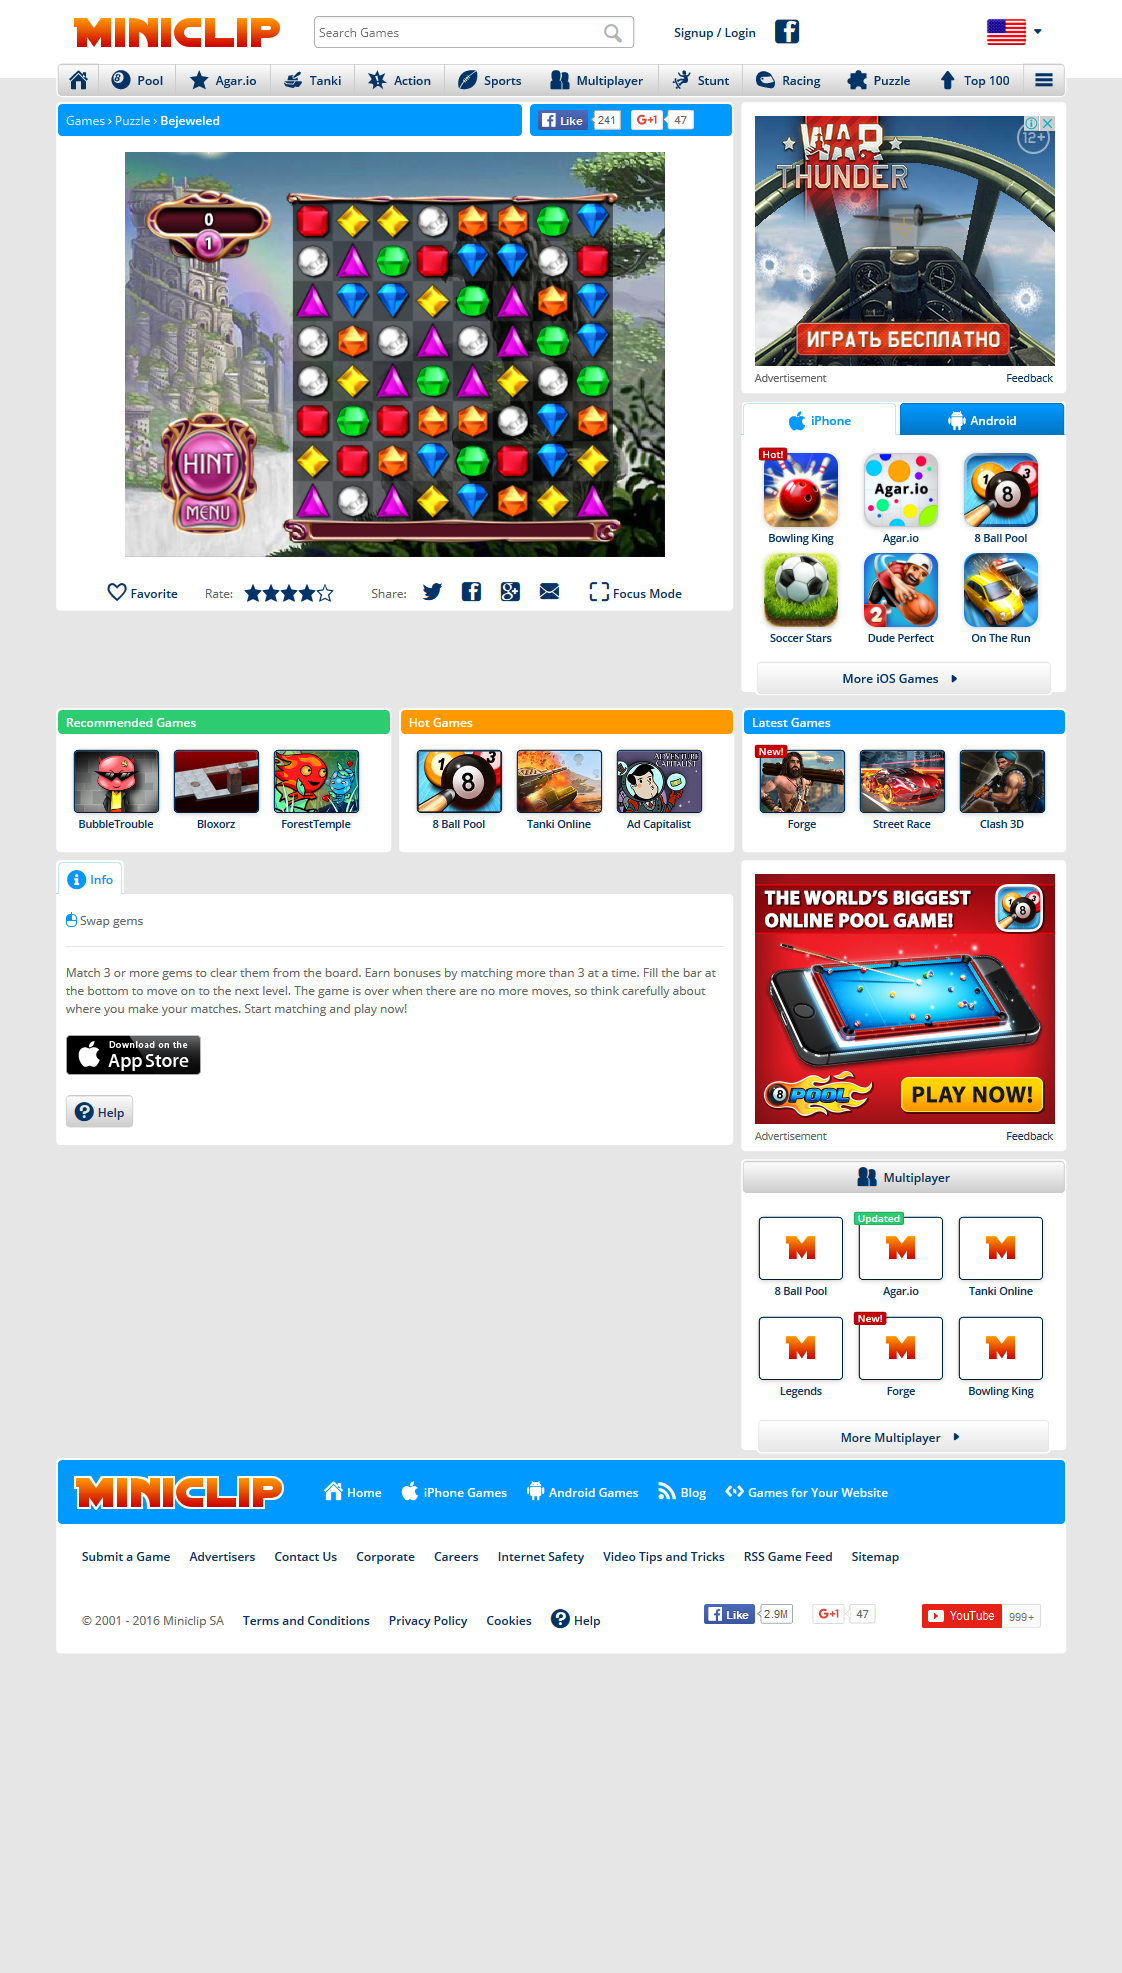
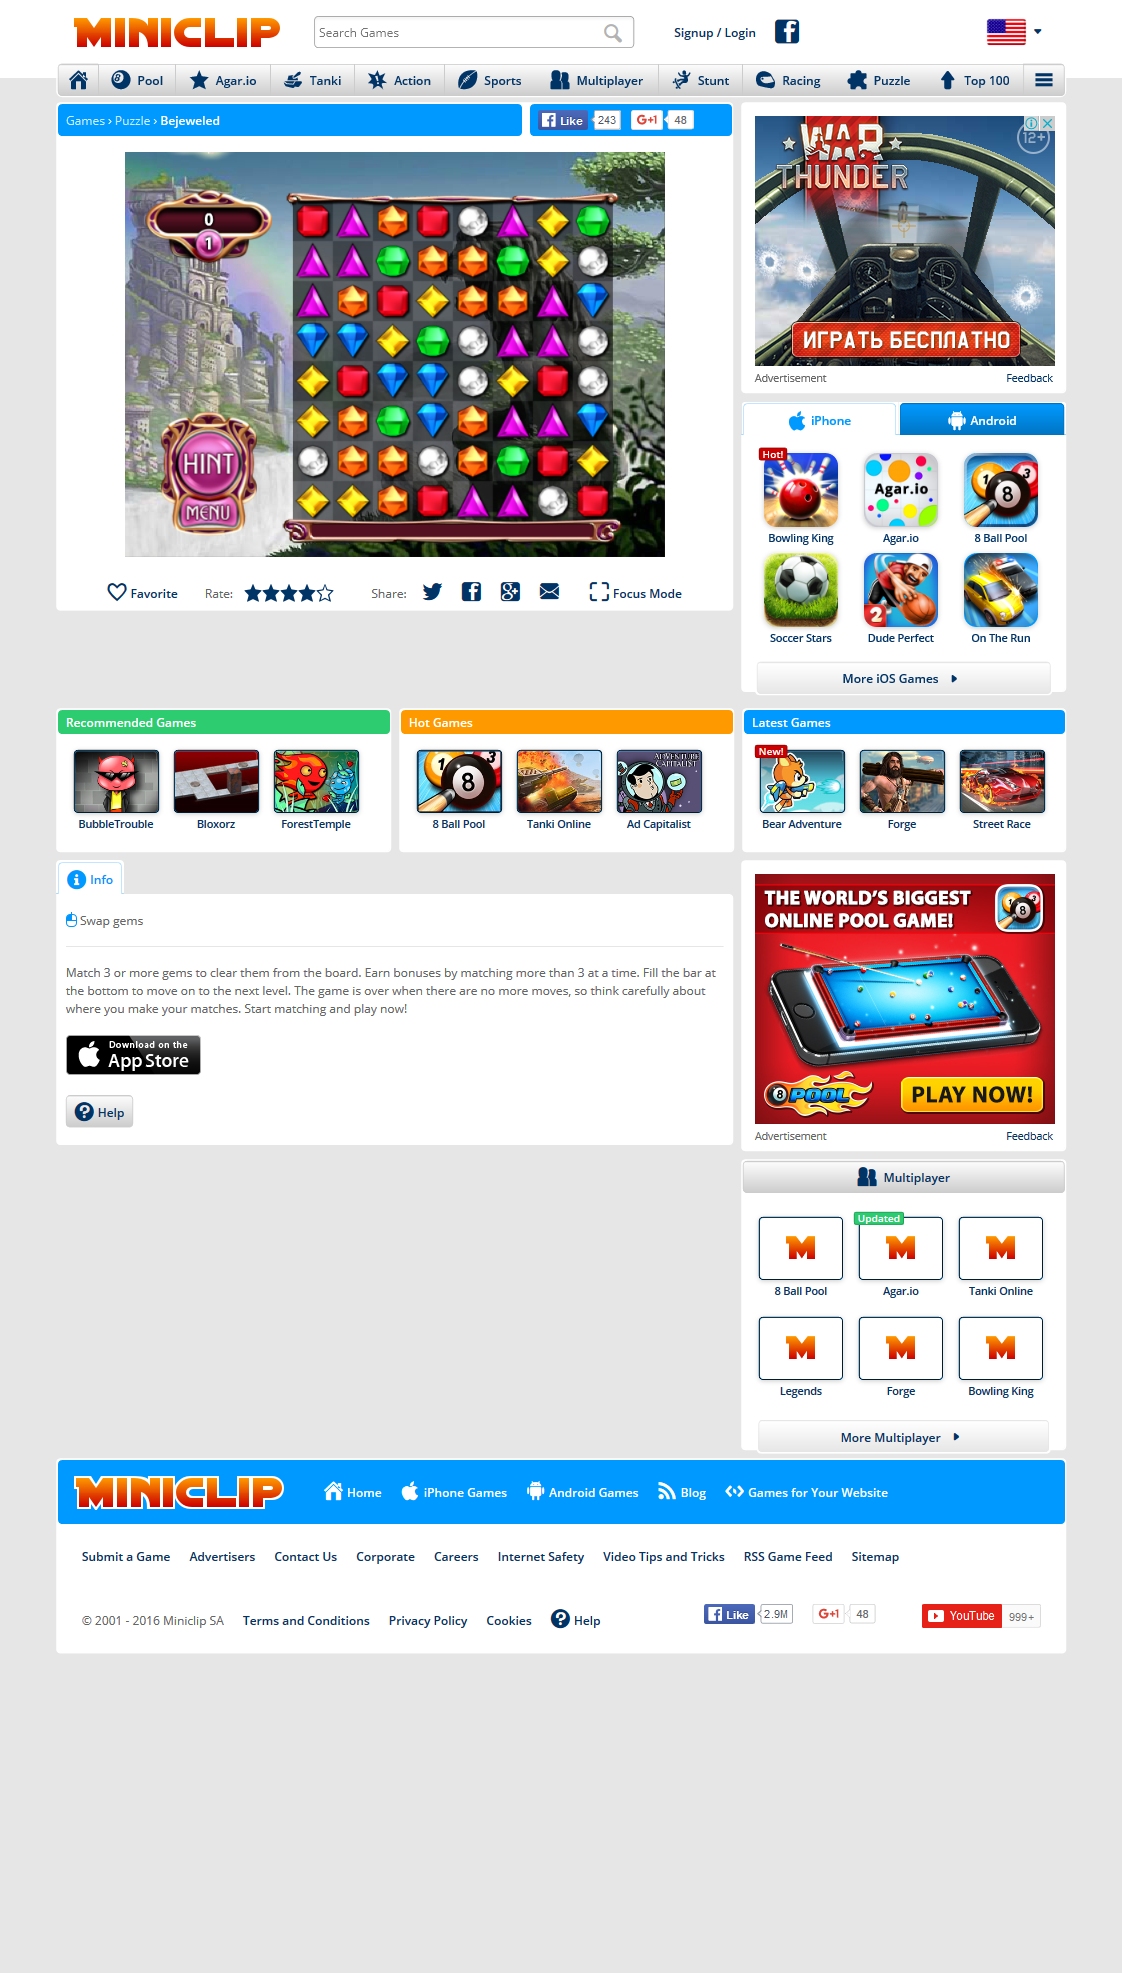
Added classes and in total 1 working module which swaps 2 gems

diff --git a/main/firstGrab_v2_1.py b/main/firstGrab_v2_1.py
@@ -1,0 +1,174 @@
+
+import numpy as np
+
+import copy
+from selenium import webdriver
+import time
+import cv2
+
+
+
+class GameBoard:
+  #  number_lst = [('number_1.jpg', '1', 0.88) ,('number_2.jpg', '2', 0.8), ('number_3.jpg', '3', 0.8) ,('number_4.jpg', '4', 0.8) , ('number_5.jpg', '5', 0.8), ('number_6.jpg', '6', 0.8), ('number_7.jpg', '7', 0.88), ('number_8.jpg', '8', 0.8), ('number_9.jpg', '9', 0.66),  ('number_0.jpg', '0', 0.8) ]
+  #  new_number_lst = []
+
+    gems = [('White_gem.jpg', 'white', 0.8), ('Blue_gem.jpg', 'blue', 0.8), ('Purple_gem.jpg', 'purple', 0.8), ('Yellow_gem.jpg', 'yellow', 0.8), ('Red_gem.jpg', 'red', 0.8), ('Orange_gem.jpg', 'orange', 0.83), ('Green_gem.jpg', 'green', 0.82), ('Green_flame.jpg', 'green_flame', 0.8), ('Blue_flame.jpg', 'blue_flame', 0.8), ('Yellow_flame.jpg', 'yellow_flame', 0.8)]
+    ops = [(-1, 0), (1, 0), (0, -1), (0, 1)]
+
+    def __init__(self, driver=webdriver.Firefox()):
+
+        self.driver = driver
+  # find part of the page you want image of
+
+    def detect(self, mat):
+        """
+        We detect here 3 in row or 3 in column
+        """
+        for j in range(8):
+            for i in range(1, 8):
+
+                #if mat[j][i][0] != mat[j][i - 1][0] : #if lst[i][j] != lst[i][j + 1]:
+                #    continue
+
+                if i == 7:
+                    continue
+
+
+                if mat[j][i][0] == mat[j][i - 1][0] and mat[j][i][0] == mat[j][i + 1][0]:
+                   # print("Line at ", j, i - 1, mat[j][i - 1], mat[j][i + 1])
+                    return True
+        for j in range(8):
+            for i in range(1, 8):
+
+                if i == 7:
+                    continue
+
+                if mat[i][j][0] == mat[i - 1][j][0] and mat[i][j][0] == mat[i + 1][j][0]:
+                  #  print("Line at ", i - 1, j, mat[i - 1][j], mat[i + 1][j])
+                    return True
+
+    def connect_start(self):
+        self.driver.get('http://www.miniclip.com/games/bejeweled/en/')
+        self.el = self.driver.find_element_by_css_selector('#iframe-game')
+
+        for i in range(30):
+            print(30 - i, "seconds left")
+            time.sleep(1)
+    # Debug message
+        print('The page has been loaded.')
+        self.action = webdriver.common.action_chains.ActionChains(self.driver)
+        self.action.move_to_element_with_offset(self.el, self.el.size['width'] // 2, self.el.size['height'] // 2)
+        self.action.click()
+      #  print(el.size['width'] // 2,el.size['height'] // 2 )
+        self.action.perform()
+        time.sleep(3)
+        print('click')
+        self.action.move_to_element_with_offset(self.el, 100, 65)
+        self.action.click()
+        self.action.perform()
+        time.sleep(4.5)
+
+    def analyze(self):
+
+        self.mat_lst = []
+        self.general_lst = []
+        self.driver.save_screenshot('Jewels.png')  # save screenshot of the image to the file
+        self.img = cv2.imread("Jewels.png")
+        self.crop_img = self.img[self.el.location['y']:self.el.location['y'] + self.el.size['height'], self.el.location['x']:self.el.location['x'] + self.el.size['width']]
+        cv2.imwrite("cropped.png", self.crop_img)
+        # NOTE: its img[y: y + h, x: x + w] and *not* img[x: x + w, y: y + h]
+        self.img_rgb = cv2.imread("cropped.png")
+        self.img_gray = cv2.cvtColor(self.img_rgb, cv2.COLOR_BGR2GRAY)
+        cv2.waitKey(0)
+
+
+
+        for self.gem in GameBoard.gems:
+            self.template = cv2.imread(self.gem[0],0)
+            #w, h = template.shape[::-1]
+           # print(w, h)
+            self.res = cv2.matchTemplate(self.img_gray, self.template, cv2.TM_CCOEFF_NORMED)
+            self.threshold = self.gem[2]
+            self.loc = np.where(self.res >= self.threshold)
+            self.lst = []
+
+            for self.pt in zip(*self.loc[::-1]):
+                self.lst.append(self.pt)
+
+            self.general_lst += (GameBoard.new_sort(self, self.lst, self.gem[1], 10))
+        #   self.bd = self.driver.find_element_by_css_selector('body')
+        #print(len(self.general_lst))
+        self.general_lst.sort(key=lambda x: x[1][1])
+
+        for i in range(0,len(self.general_lst) - 7, 8):
+            self.part = self.general_lst[i:i + 8]
+            self.part.sort(key=lambda x: x[1][0])
+            self.mat_lst.append(self.part)
+       # print(self.mat_lst)
+        return self.mat_lst
+
+
+    def new_sort(self, lst, color, param):
+        #self.lst = lst
+       #self.color = color
+        self.param = param
+        self.new_lst = []
+
+        for i in range(len(lst)):
+            self.is_duplicate = False
+            for j in range(len(self.new_lst)):
+                if abs(lst[i][0] - self.new_lst[j][1][0]) < self.param and abs(lst[i][1] - self.new_lst[j][1][1]) < self.param:
+                    self.is_duplicate = True
+            if not self.is_duplicate:
+                self.new_lst.append((color, self.lst[i]))
+        self.new_lst.sort(key=lambda x: x[1][0])
+        return self.new_lst
+
+    def find_moves(self):
+        self.moves = []
+        for self.cell in range(64):
+            self.i = self.cell // 8
+            self.j = self.cell - self.i * 8
+          #  print(i, j, mat_lst[i][j])
+
+            self.new_mat_lst = copy.deepcopy(self.mat_lst)
+
+            for self.op in GameBoard.ops:
+                self.n_i = self.i + self.op[0]
+                self.n_j = self.j + self.op[1]
+                #print(n_i ,n_j)
+                if 0 <= self.n_i <= 7 and 0 <= self.n_j <= 7:
+                    self.swap = self.new_mat_lst[self.i][self.j]
+                    self.new_mat_lst[self.i][self.j] = self.new_mat_lst[self.n_i][self.n_j]
+                    self.new_mat_lst[self.n_i][self.n_j] = self.swap
+
+                    if GameBoard.detect(self, self.new_mat_lst):
+                        if ((self.n_i, self.n_j), (self.i, self.j)) not in self.moves:
+                           # self.moves.append(((self.i, self.j), (self.n_i, self.n_j)))
+                            self.moves.append(((self.mat_lst[self.i][self.j]), (self.mat_lst[self.n_i][self.n_j])))
+
+                    self.swap = self.new_mat_lst[self.n_i][self.n_j]
+                    self.new_mat_lst[self.n_i][self.n_j] = self.new_mat_lst[self.i][self.j]
+                    self.new_mat_lst[self.i][self.j] = self.swap
+        return self.moves
+
+    def swap1(self, gem_1, gem_2):
+        self.gem_1 = gem_1
+        self.gem_2 = gem_2
+        self.action.move_to_element_with_offset(self.el, self.gem_1[1][0], self.gem_1[1][1])
+        self.action.click()
+        self.action.move_to_element_with_offset(self.el, self.gem_2[1][0], self.gem_2[1][1])
+        self.action.click()
+        self.action.perform()
+
+
+new = GameBoard()
+new.connect_start()
+new.analyze()
+new.find_moves()
+
+
+#print(list(gems[0]))
+gems = new.find_moves()
+
+new.swap1(gems[0][0], gems[0][1])

diff --git a/main/selenium_test.py b/main/selenium_test.py
@@ -41,14 +41,13 @@ def connect_start():
 
 connect_start()
 
-def test_switch():
+def test_switch(gem_1, gem_2):
     el = driver.find_element_by_css_selector('#iframe-game')
     action = webdriver.common.action_chains.ActionChains(driver)
-    action.move_to_element_with_offset(el, el.size['width'] // 2, el.size['height'] // 2)
+    action.move_to_element_with_offset(el, gem_1[1][0], gem_1[1][1])
     action.click()
-    action.move_to_element_with_offset(el, el.size['width'] // 2 + 42, el.size['height'] // 2)
+    action.move_to_element_with_offset(el, gem_2[1][0], gem_2[1][2])
     action.click()
-
     action.perform()
 
 test_switch()
